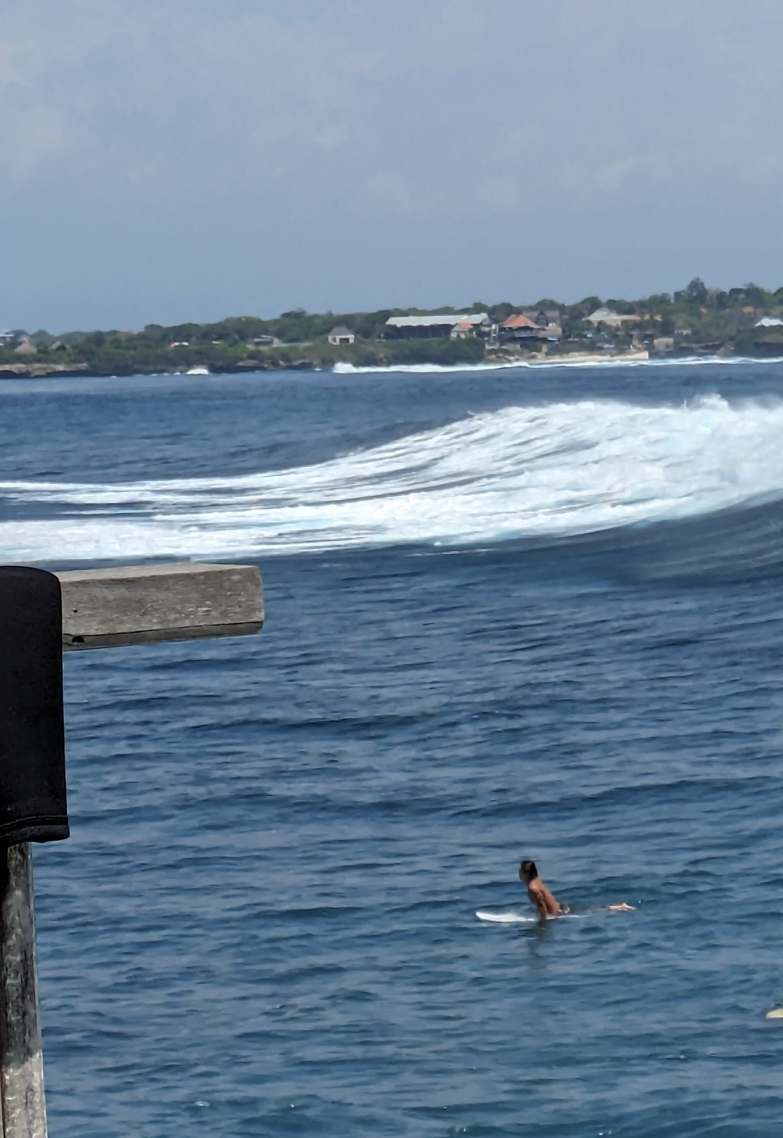
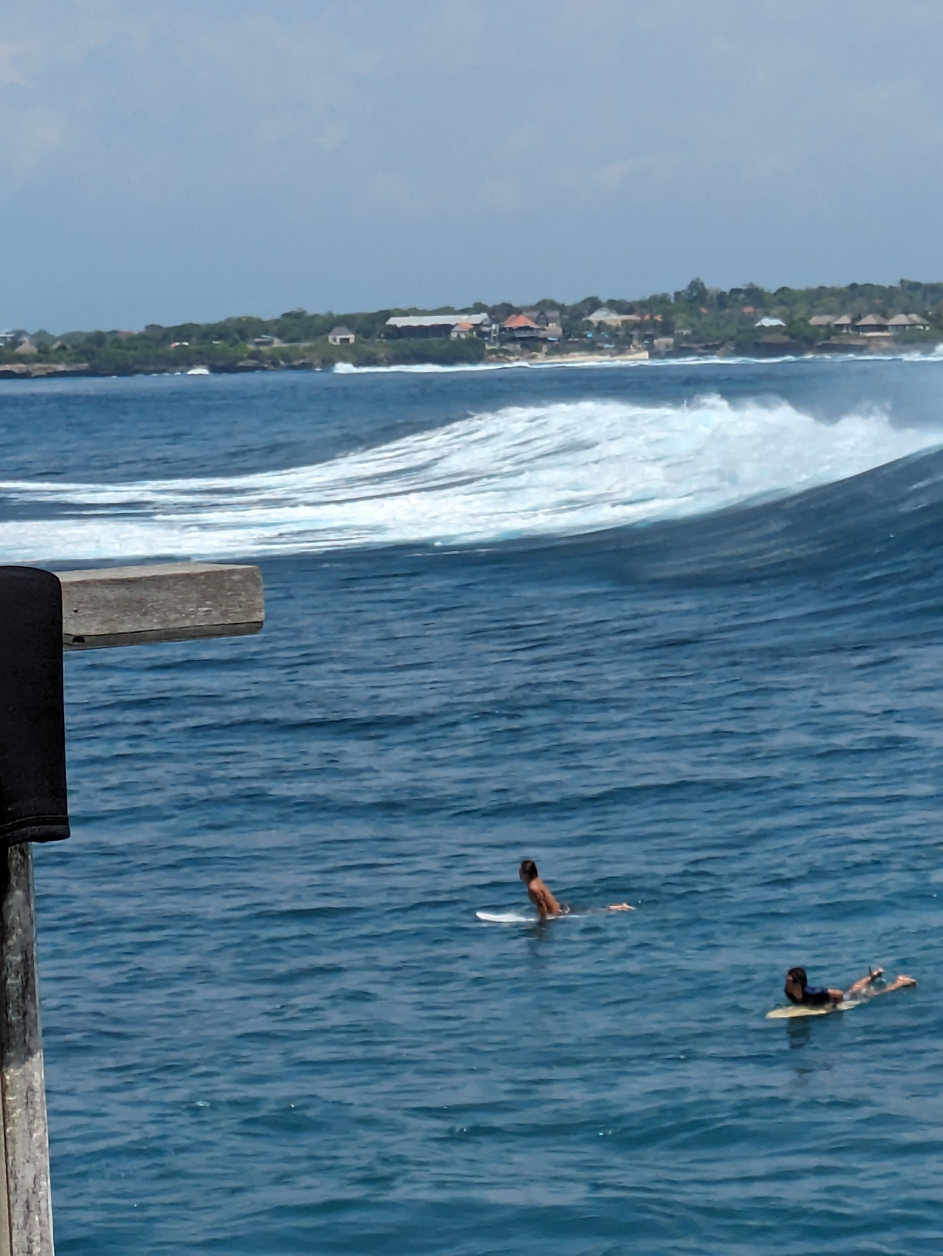
Organize the project order

diff --git a/src/data/projects.ts b/src/data/projects.ts
@@ -10,21 +10,22 @@ export type Project = {
 
 export const projects: Project[] = [
   {
-    title: "Pig Game",
-    description: "A dice game built with vanilla HTML, CSS, and JavaScript.",
-    image: "/images/pigGame.jpg",
-    github: "https://github.com/shuuta1005/pig-game",
-    live: "https://shuuta1005.github.io/pig-game/",
-    category: "Game",
+    title: "Bra Fotos",
+    description: "Still in development... surf photo marketplace project.",
+    image: "/images/bra-fotos.jpg",
+    github: "https://github.com/shuuta1005/surf-foto-mp-v1",
+    live: "https://www.surfphotosjapan.com/",
+    category: "Full-Stack",
   },
-  {
-    title: "Guess My Number",
-    description: "A simple number guessing game using JavaScript logic.",
-    image: "/images/guessMyNum.jpg",
-    github: "https://github.com/shuuta1005/guess-my-number",
-    live: "https://shuuta1005.github.io/guess-my-number/",
-    category: "Game",
-  },
+
+  // {
+  //   title: "Guess My Number",
+  //   description: "A simple number guessing game using JavaScript logic.",
+  //   image: "/images/guessMyNum.jpg",
+  //   github: "https://github.com/shuuta1005/guess-my-number",
+  //   live: "https://shuuta1005.github.io/guess-my-number/",
+  //   category: "Game",
+  // },
   {
     title: "Simon Game",
     description: "A memory-based game inspired by the classic Simon game.",
@@ -34,13 +35,21 @@ export const projects: Project[] = [
     category: "Game",
   },
   {
-    title: "Blog App",
-    description:
-      "Blog app built with Node.js, Express, and EJS. View README for usage.",
-    image: "/images/blog-app.png",
-    github: "https://github.com/shuuta1005/my-blog-app",
-    category: "Full-Stack",
+    title: "Pig Game",
+    description: "A dice game built with vanilla HTML, CSS, and JavaScript.",
+    image: "/images/pigGame.jpg",
+    github: "https://github.com/shuuta1005/pig-game",
+    live: "https://shuuta1005.github.io/pig-game/",
+    category: "Game",
   },
+  // {
+  //   title: "Blog App",
+  //   description:
+  //     "Blog app built with Node.js, Express, and EJS. View README for usage.",
+  //   image: "/images/blog-app.png",
+  //   github: "https://github.com/shuuta1005/my-blog-app",
+  //   category: "Full-Stack",
+  // },
   {
     title: "Book Note App",
     description:
@@ -56,13 +65,5 @@ export const projects: Project[] = [
     image: "/images/album-search-app.jpeg",
     github: "https://github.com/shuuta1005/musica-list",
     category: "Frontend",
-  },
-  {
-    title: "Bra Fotos",
-    description: "Still in development... surf photo marketplace project.",
-    image: "/images/bra-fotos.jpg",
-    github: "https://github.com/shuuta1005/surf-foto-mp-v1",
-    live: "https://surf-foto-mp-v1.vercel.app/",
-    category: "Full-Stack",
   },
 ];

diff --git a/src/app/surfing/components/SurfPhotoGallery.tsx b/src/app/surfing/components/SurfPhotoGallery.tsx
@@ -1,0 +1,80 @@
+import { Box, Text, Image, SimpleGrid, Fade } from "@chakra-ui/react";
+import { motion } from "framer-motion";
+
+type PhotoGallery = {
+  src: string;
+  caption: string;
+}[];
+
+export default function SurfPhotoGallery({
+  surfGallery,
+}: {
+  surfGallery: PhotoGallery;
+}) {
+  return (
+    <SimpleGrid
+      columns={[1, 1, 2]}
+      spacing={[6, 8, 10]}
+      px={[4, 6, 8]}
+      maxW="container.xl"
+      mx="auto"
+    >
+      {surfGallery.map((photo, i) => (
+        <Fade in key={i}>
+          <Box
+            as={motion.div}
+            whileHover={{ scale: 1.02 }}
+            borderRadius="xl"
+            overflow="hidden"
+            boxShadow="lg"
+            bg="white"
+            position="relative"
+            border="1px solid"
+            borderColor="gray.100"
+          >
+            <Box
+              position="relative"
+              w="full"
+              h="400px" // Fixed height
+              display="flex"
+              justifyContent="center"
+              alignItems="center"
+              bg="gray.100"
+              overflow="hidden"
+            >
+              <Image
+                src={photo.src}
+                alt={`Surf photo ${i + 1}`}
+                objectFit="contain"
+                maxW="full"
+                maxH="full"
+                w="auto"
+                h="auto"
+                transition="transform 0.3s ease"
+                _hover={{
+                  transform: "scale(1.02)",
+                }}
+              />
+            </Box>
+            <Box
+              p={[4, 5, 6]}
+              bg="gray.50"
+              borderTop="1px solid"
+              borderColor="gray.100"
+            >
+              <Text
+                color="gray.800"
+                fontSize={["md", "lg", "xl"]}
+                fontWeight="medium"
+                lineHeight="tall"
+                textAlign="center"
+              >
+                {photo.caption}
+              </Text>
+            </Box>
+          </Box>
+        </Fade>
+      ))}
+    </SimpleGrid>
+  );
+}

diff --git a/src/app/surfing/page.tsx b/src/app/surfing/page.tsx
@@ -1,16 +1,12 @@
 // src/app/surfing/page.tsx
 "use client";
 
-import { Box, Text, Image, VStack, SimpleGrid } from "@chakra-ui/react";
+import { Box } from "@chakra-ui/react";
 import { GiWaveCrest } from "react-icons/gi";
 import LifestyleHeader from "@/components/LifestyleHeader";
+import SurfPhotoGallery from "./components/SurfPhotoGallery";
 
 const surfGallery = [
-  {
-    src: "/images/takeoff1.jpg",
-    caption:
-      "One of the biggest waves I’d ridden at the time — so stoked this moment got captured",
-  },
   {
     src: "/images/senigan.jpg",
     caption: "Indo. Always good to be there",
@@ -31,31 +27,27 @@ const surfGallery = [
     src: "/images/beach1.jpg",
     caption: "Just another day at my local — The Bra",
   },
+  {
+    src: "/images/southcoast.jpg",
+    caption: "South Coast - NSW",
+  },
+  {
+    src: "/images/home.jpeg",
+    caption: "At my home break in Japan with my buddy🐶",
+  },
+  {
+    src: "/images/takeoff1.jpg",
+    caption:
+      "One of the biggest waves I’d ridden at the time — so stoked this moment got captured",
+  },
 ];
 
 export default function SurfingPage() {
   return (
-    <Box px={8} py={15} maxW="6xl" mx="auto">
+    <Box px={8} py={15} mx="auto">
       <LifestyleHeader title="Surfing" quote="" icon={<GiWaveCrest />} />
 
-      <SimpleGrid columns={1} spacing={10}>
-        {surfGallery.map((photo, i) => (
-          <VStack key={i} spacing={4} align="start">
-            <Image
-              src={photo.src}
-              alt={`Surf photo ${i + 1}`}
-              borderRadius="md"
-              objectFit="cover"
-              w="80%"
-              // maxH="500px"
-              shadow="md"
-            />
-            <Text color="gray.900" fontSize="xl">
-              {photo.caption}
-            </Text>
-          </VStack>
-        ))}
-      </SimpleGrid>
+      <SurfPhotoGallery surfGallery={surfGallery} />
     </Box>
   );
 }

diff --git a/src/app/skating/page.tsx b/src/app/skating/page.tsx
@@ -1,0 +1,35 @@
+// src/app/skating/page.tsx
+"use client";
+
+import { Box } from "@chakra-ui/react";
+import { GiSkateboard } from "react-icons/gi";
+import LifestyleHeader from "@/components/LifestyleHeader";
+import SurfPhotoGallery from "../surfing/components/SurfPhotoGallery";
+
+const skateGallery = [
+  {
+    src: "/images/front-slash.png",
+    caption: "Frontide grind at Sydenham — one of my favorite bowls.",
+  },
+  {
+    src: "/images/skating/skate2.jpg",
+    caption: "Learning to pump higher without pushing. Flow is everything.",
+  },
+  {
+    src: "/images/skating/skate3.jpg",
+    caption: "Late afternoon cruise in Tokyo. Smooth concrete and good vibes.",
+  },
+  {
+    src: "/images/skating/skate4.jpg",
+    caption: "One of my early sessions. Still figuring things out.",
+  },
+];
+
+export default function SkatingPage() {
+  return (
+    <Box px={8} py={15} mx="auto">
+      <LifestyleHeader title="Skating" quote="" icon={<GiSkateboard />} />
+      <SurfPhotoGallery surfGallery={skateGallery} />
+    </Box>
+  );
+}

diff --git a/src/components/LifestyleHeader.tsx b/src/components/LifestyleHeader.tsx
@@ -36,8 +36,8 @@ export default function LifestyleHeader({ title, quote, icon }: Props) {
           }}
         />
         <Heading
-          size="lg"
-          color="teal.50"
+          size="2xl"
+          color="white"
           letterSpacing="tight"
           textShadow="1px 1px 2px rgba(0,0,0,0.1)"
         >

diff --git a/src/app/layout.tsx b/src/app/layout.tsx
@@ -3,7 +3,7 @@ import { Providers } from "@/lib/providers";
 import { ReactNode } from "react";
 
 export const metadata = {
-  title: "My Portfolio",
+  title: "Shuta Saito Portfolio",
   description: "Built with Next.js and Chakra UI",
 };
 
